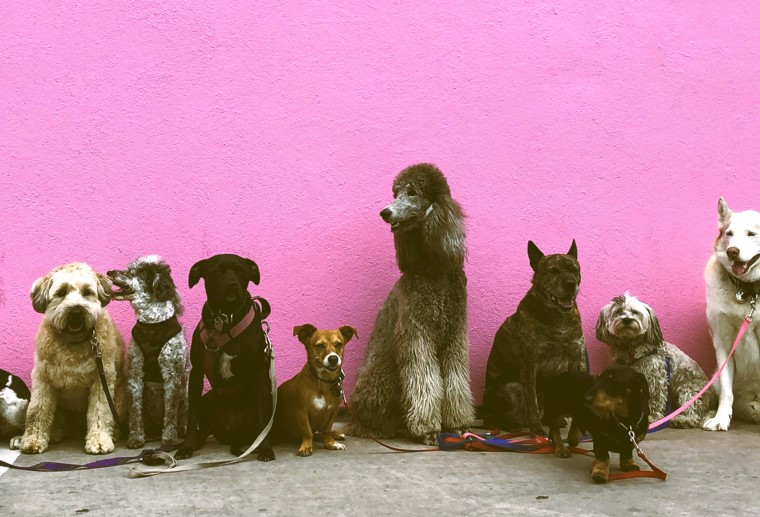
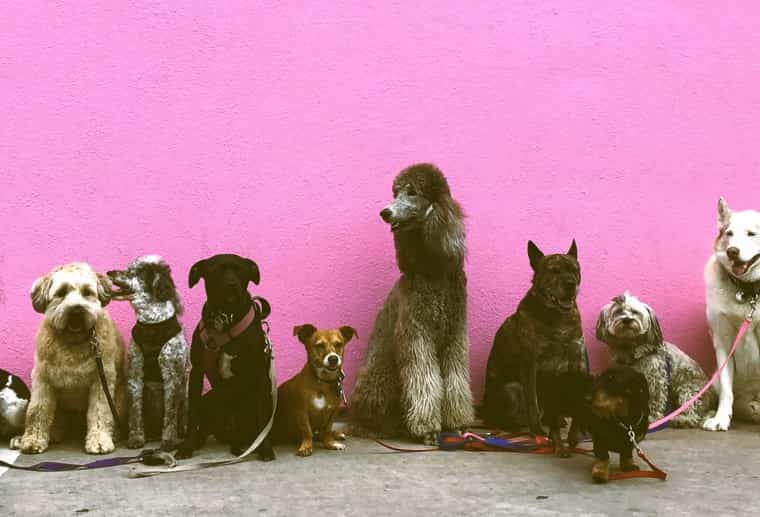
optimize images

diff --git a/src/Components/Carousels/ParralilyCarousel.jsx b/src/Components/Carousels/ParralilyCarousel.jsx
@@ -2,9 +2,8 @@ import React from "react";
 import Carousel from "react-bootstrap/Carousel";
 import "bootstrap/dist/css/bootstrap.min.css";
 import "./Carousel.scss";
-import parraMenu from "../Images/ParraLily/parraLilyBrunch.png";
-import designBoard from "../Images/ParraLily/designboard.png";
-import wireFrames from "../Images/ParraLily/wireframes.png";
+import parraMenu from "../Images/ParraLily/brunchMenu.jpg";
+import designBoard from "../Images/ParraLily/designboard.jpg";
 
 function ParralilyCarousel() {
   return (
@@ -31,18 +30,6 @@ function ParralilyCarousel() {
           />
           <div className="carousel-caption">
             <p></p>
-          </div>
-        </Carousel.Item>
-
-        <Carousel.Item>
-          <img
-            id="carousel-item"
-            className="d-block w-100"
-            src={wireFrames}
-            alt="Third slide"
-          />
-          <div className="carousel-caption">
-            <p>Wireframes made in Adobe XD</p>
           </div>
         </Carousel.Item>
       </Carousel>

diff --git a/src/Components/PortfolioPages/Neurotype/Neurotype.jsx b/src/Components/PortfolioPages/Neurotype/Neurotype.jsx
@@ -2,11 +2,11 @@
 import React from "react";
 import "./../PortfolioPages.scss";
 import NeurotypeCarousel from "../../Carousels/NeurotypeCarousel/NeurotypeCarousel";
-import neuroHero from "../../Images/Neurotype/newNeuro.jpg";
-import neuroGif from "../../Images/Neurotype/neuro-gif-ps.gif";
+import neuroHero from "../../Images/Neurotype/neuroHero.jpg";
+import neuroGif from "../../Images/Neurotype/neuroGif.gif";
 import neuroLogo from "../../Images/Neurotype/logo-concept.png";
-import neuroMap from "../../Images/Neurotype/experience-map.png";
-import neuroData from "../../Images/Neurotype/data2.png";
+import neuroMap from "../../Images/Neurotype/neuroMap.png";
+import neuroData from "../../Images/Neurotype/neuroData.png";
 
 function Neurotype() {
   return (

diff --git a/src/Components/Portfolio/Portfolio.jsx b/src/Components/Portfolio/Portfolio.jsx
@@ -2,9 +2,9 @@
 import React from "react";
 import "./Portfolio.scss";
 import pettesHover from "./../Images/PettesHounds/phHover.jpg";
-import neuroHover from "./../Images/Neurotype/neuro-gif-ps.gif";
-import outtaHover from "./../Images/OuttaWax/outtaHover2.jpg";
-import parraHover from "./../Images/ParraLily/parraHover3.png";
+import neuroHover from "./../Images/Neurotype/neuroGif.gif";
+import outtaHover from "./../Images/OuttaWax/outtaHover.jpg";
+import parraHover from "./../Images/ParraLily/parraHover.jpg";
 import soonaHover from "./../Images/Soona/soonaGif.gif";
 import yhaHover from "./../Images/YHA/YouMatter.gif";
 

diff --git a/src/Components/PortfolioPages/ParraLily/ParraLily.jsx b/src/Components/PortfolioPages/ParraLily/ParraLily.jsx
@@ -2,9 +2,9 @@
 import React from "react";
 import ParralilyCarousel from "../../Carousels/ParralilyCarousel";
 import "../PortfolioPages.scss";
-import parraHero from "../../Images/ParraLily/parra.jpg";
-import parraMenu from "../../Images/ParraLily/parraLilyBrunch.png";
-import designBoard from "../../Images/ParraLily/designboard.png";
+import parraHero from "../../Images/ParraLily/parraHero.jpg";
+import parraMenu from "../../Images/ParraLily/brunchMenu.jpg";
+import designBoard from "../../Images/ParraLily/designboard.jpg";
 
 function ParraLily() {
   return (

diff --git a/src/Components/PortfolioPages/PettesHounds/PettesHounds.jsx b/src/Components/PortfolioPages/PettesHounds/PettesHounds.jsx
@@ -6,7 +6,7 @@ import PettesHoundsCarousel from "../../Carousels/PettesHoundsCarousel";
 import pettesLogo from "../../Images/PettesHounds/phLogo.gif";
 import homeOg from "../../Images/PettesHounds/homeog.jpg";
 import homeNew from "../../Images/PettesHounds/home.jpg";
-import servicesOg from "../../Images/PettesHounds/allservicesog.png";
+import servicesOg from "../../Images/PettesHounds/allServicesOg.jpg";
 import servicesNew from "../../Images/PettesHounds/allservices.jpg";
 
 function PettesHounds() {

diff --git a/src/Components/Carousels/PettesHoundsCarousel.jsx b/src/Components/Carousels/PettesHoundsCarousel.jsx
@@ -5,7 +5,7 @@ import "./Carousel.scss";
 import pettesHomePage from "./../Images/PettesHounds/home.jpg";
 import pettesHomePageOg from "./../Images/PettesHounds/homeog.jpg";
 import allServices from "./../Images/PettesHounds/allservices.jpg";
-import ogAllServices from "./../Images/PettesHounds/allservicesog.png";
+import ogAllServices from "./../Images/PettesHounds/allServicesOg.jpg";
 import animatedLogo from "./../Images/PettesHounds/phLogo.gif";
 
 function PettesHoundsCarousel() {

diff --git a/src/Components/Carousels/NeurotypeCarousel/NeurotypeCarousel.jsx b/src/Components/Carousels/NeurotypeCarousel/NeurotypeCarousel.jsx
@@ -2,8 +2,8 @@ import React from "react";
 import Carousel from "react-bootstrap/Carousel";
 import "bootstrap/dist/css/bootstrap.min.css";
 import "./../Carousel.scss";
-import dataDashboard from "../../Images/Neurotype/dashboard.png";
-import data2 from "../../Images/Neurotype/data2.png";
+import dataDashboard from "../../Images/Neurotype/neuroDash.png";
+import data2 from "../../Images/Neurotype/neuroData.png";
 
 function NeurotypeCarousel() {
   return (

diff --git a/src/Components/PortfolioPages/Yha/Yha.jsx b/src/Components/PortfolioPages/Yha/Yha.jsx
@@ -1,7 +1,7 @@
 import React from "react";
 import "../PortfolioPages.scss";
-import youMatter from "../../Images/YHA/YouMatter.gif";
-import yhaHero from "../../Images/YHA/YHA.jpg";
+import youMatter from "../../Images/YHA/g1-.gif";
+import yhaHero from "../../Images/YHA/yhaHero.jpg";
 import yhaMap from "../../Images/YHA/yhaMap.jpg";
 import resources from "../../Images/YHA/resources.jpg";
 import yhaFigma from "../../Images/YHA/yhaFigma.jpg";

diff --git a/src/Components/PortfolioPages/Soona/Soona.jsx b/src/Components/PortfolioPages/Soona/Soona.jsx
@@ -1,7 +1,7 @@
 /* eslint-disable react/jsx-no-comment-textnodes */
 import React from "react";
 import "./../PortfolioPages.scss";
-import soonaHero from "../../Images/Soona/newSoona.jpg";
+import soonaHero from "../../Images/Soona/soonaHero.jpg";
 import soonaGif from "../../Images/Soona/soonaGif.gif";
 import journeyMap from "../../Images/Soona/journey.png";
 import soonaKano from "../../Images/Soona/kano.png";

diff --git a/src/Components/PortfolioPages/OuttaWax/OuttaWax.jsx b/src/Components/PortfolioPages/OuttaWax/OuttaWax.jsx
@@ -1,7 +1,7 @@
 /* eslint-disable react/jsx-no-comment-textnodes */
 import React from "react";
 import "../PortfolioPages.scss";
-import outtaHero from "../../Images/OuttaWax/OuttaWax.jpg";
+import outtaHero from "../../Images/OuttaWax/outtaHero.jpg";
 
 function OuttaWax() {
   return (
